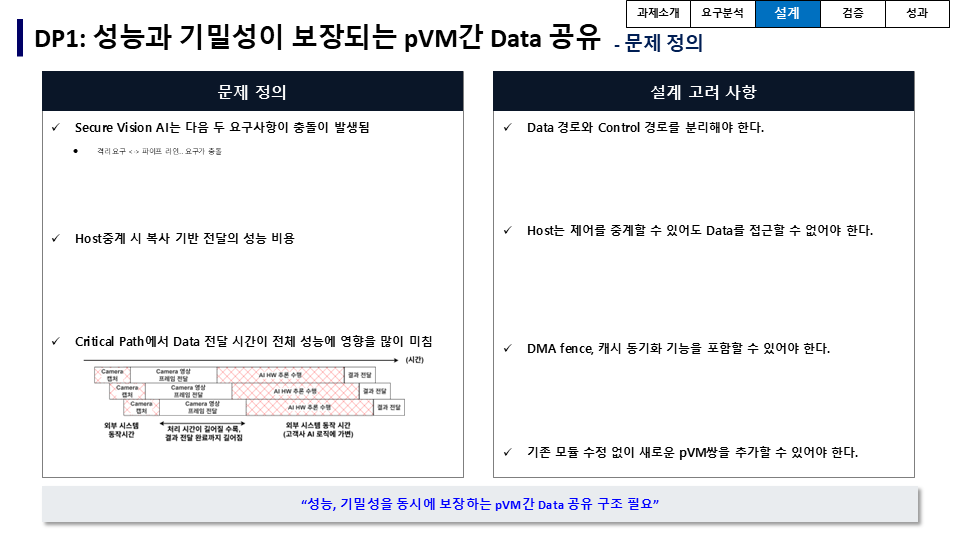
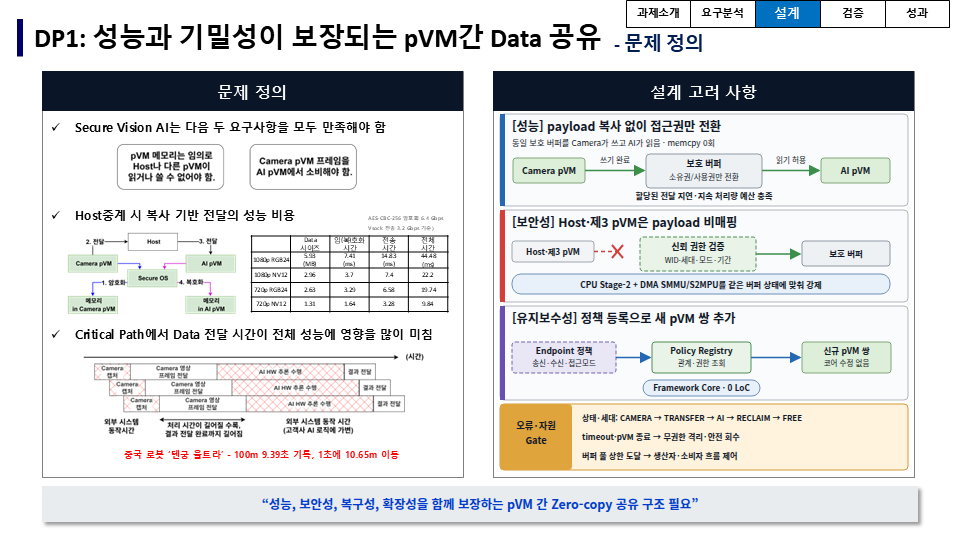
슬라이드 14·15 설계 고려 사항 다이어그램 보강

diff --git a/docs-align/슬라이드14_16_설계고려사항_다이어그램_검토.md b/docs-align/슬라이드14_16_설계고려사항_다이어그램_검토.md
@@ -258,7 +258,14 @@ CAMERA_OWNED → IN_TRANSFER → AI_OWNED → RECLAIMING → FREE
 
 ## 8. 반영 결과
 
-- 슬라이드 16 PNG의 오른쪽 패널을 세 개의 설명 카드와 공통 gate로 보강한다.
-- 슬라이드 14와 15는 이 문서에 보강 우선순위와 구체적인 그림 사양을 남기며, 현재 PNG는 변경하지 않는다.
+- 슬라이드 14 PNG의 오른쪽 패널을 `zero-copy`, `Host·제3 pVM 비매핑`, `정책 기반 pVM 쌍 추가` 카드와
+  `오류·자원 gate`로 보강한다.
+- 슬라이드 15 PNG의 오른쪽 패널을 `정상 단일 소유`, `CPU·DMA 권한의 신뢰 집행`, `안전 전환 순서와 격리`,
+  `HW Policy/Adapter 확장` 카드로 보강한다.
+- 슬라이드 16 PNG의 오른쪽 패널을 `저장 수명 분리`, `Workload 신원 결합`, `정책 기반 Workload 추가` 카드와
+  공통 gate로 보강한다.
+- 세 슬라이드의 하단 결론 문구를 각 DP의 보안성·성능·복구성·확장성 범위에 맞게 정렬한다.
 
-관련 이미지: [슬라이드 16](SW_Architect_개인과제/슬라이드16.PNG)
+관련 이미지: [슬라이드 14](SW_Architect_개인과제/슬라이드14.PNG),
+[슬라이드 15](SW_Architect_개인과제/슬라이드15.PNG),
+[슬라이드 16](SW_Architect_개인과제/슬라이드16.PNG)
